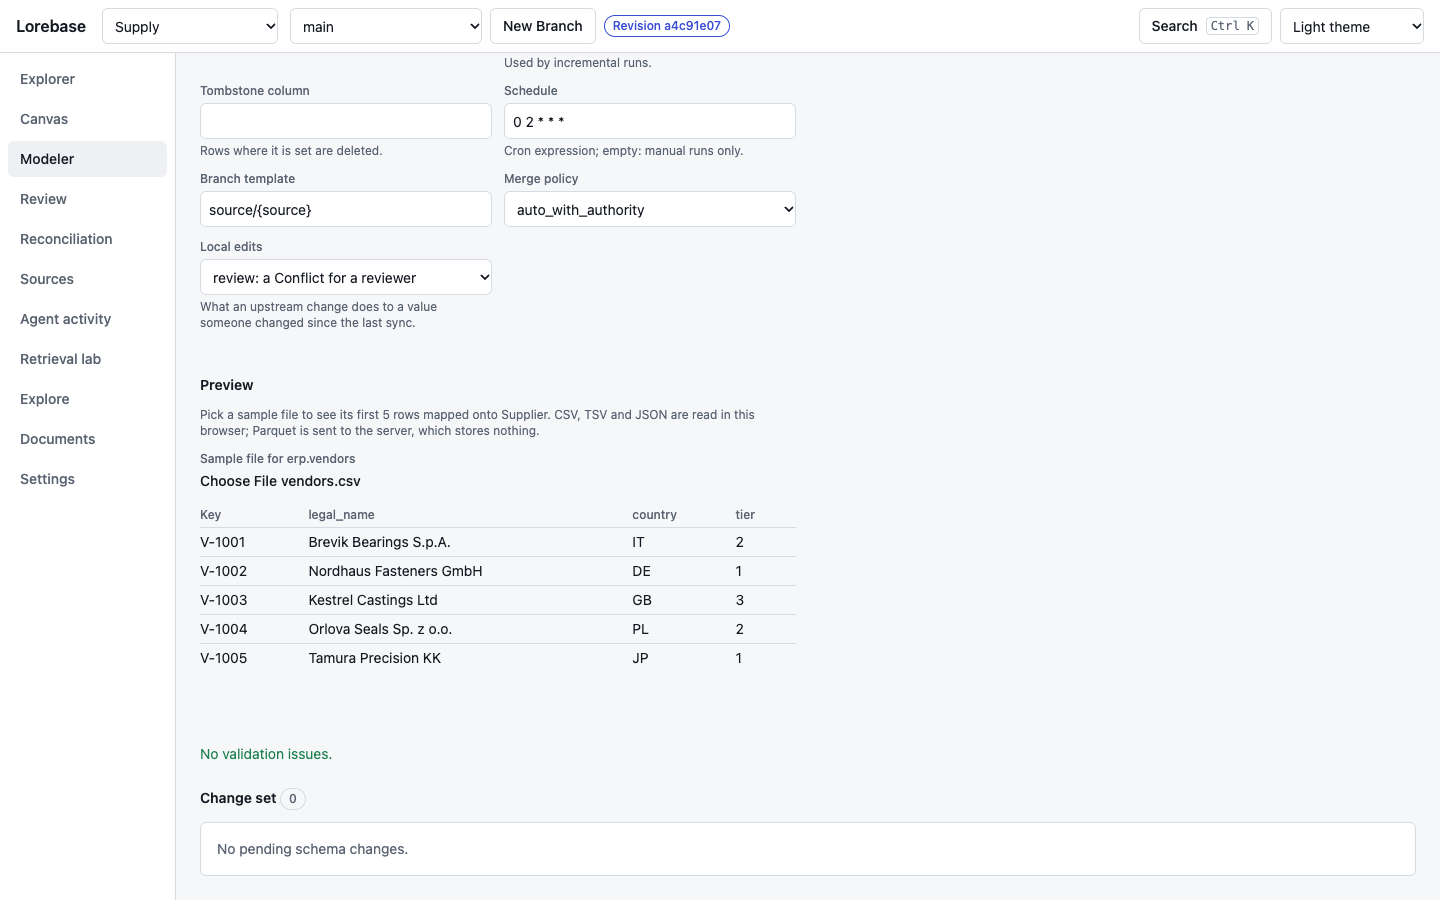
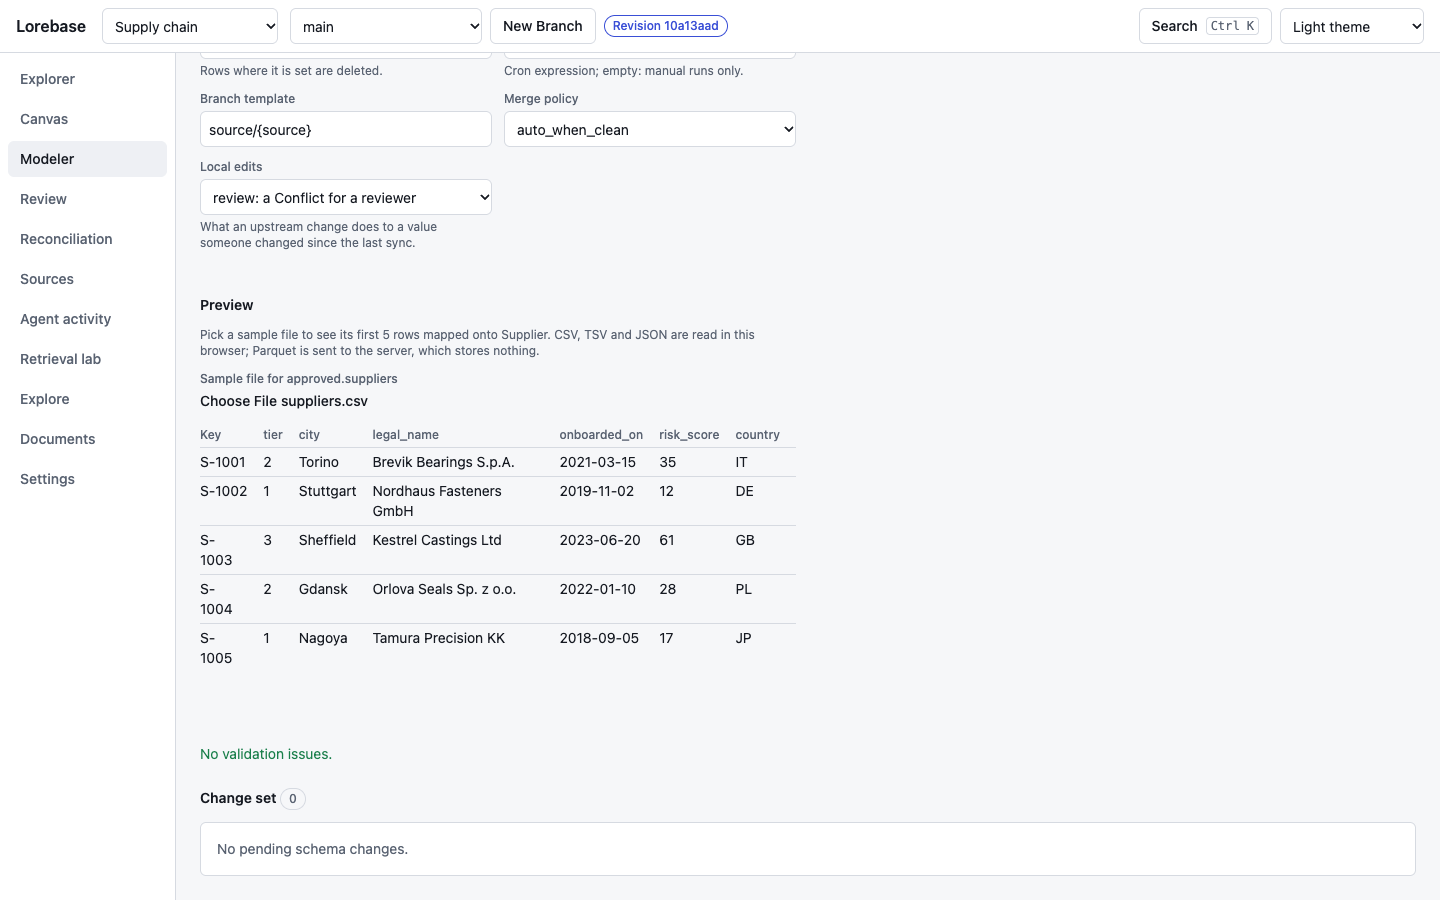
Retake the Settings and Source preview shots, load the mock's Domain update lazily
The Settings shot starts at the Domain section so the ingestion settings
are in the picture, and the Source preview shot picks approved.suppliers
instead of relying on the order of the Sources. A select step joins the
screenshot script for that.

The mock's Domain update moves to a module loaded on first use; the mock
ships in the main chunk, which the read presets and settings edits still
grow past 65 kB gzipped, so its budget rises to 66 kB.

diff --git a/apps/web/scripts/screenshots.ts b/apps/web/scripts/screenshots.ts
@@ -48,6 +48,8 @@ type Step =
   | { wait: number }
   | { waitFor: string; timeoutMs?: number }
   | { fill: string; text: string }
+  /** Choose the option `value` of the select labelled `label`. */
+  | { select: string; value: string }
   | { check: string; nth: number }
   | { upload: string; files: string[]; from?: 'sourceSample' };
 
@@ -67,6 +69,14 @@ interface Shot {
   /** Viewport height for a long screen; the width is always the one of CONFIG. */
   height?: number;
 }
+
+/** The Settings picture starts at the Domain section and reaches past the ingestion form. */
+const SETTINGS_STEPS: Step[] = [
+  { waitFor: 'form[aria-label="Ingestion settings"]' },
+  { scrollToTop: 'h2:text-is("Domain")', offset: 24 },
+  { wait: 300 },
+];
+const SETTINGS_HEIGHT = 1100;
 
 /** The sample Domain of the mock; a live run uses a Domain it loads itself. */
 const MOCK_DOMAIN = 'supply';
@@ -303,6 +313,9 @@ const MOCK_SHOTS = (domain: string): Shot[] => [
     name: 'settings',
     path: `/${domain}/settings`,
     ready: 'text=Appearance',
+    // From the Domain section down, so its ingestion settings are in the picture.
+    steps: SETTINGS_STEPS,
+    height: SETTINGS_HEIGHT,
   },
   {
     name: 'explorer-home-dark',
@@ -350,7 +363,13 @@ const LIVE_SHOTS = (domain: string, open: string): Shot[] => [
       { scrollToTop: 'text=Merge attempt', offset: 80 },
     ],
   },
-  { name: 'settings', path: `/${domain}/settings`, ready: 'text=Appearance' },
+  {
+    name: 'settings',
+    path: `/${domain}/settings`,
+    ready: 'text=Appearance',
+    steps: SETTINGS_STEPS,
+    height: SETTINGS_HEIGHT,
+  },
   {
     name: 'explorer-home-dark',
     path: `/${domain}/explorer`,
@@ -431,6 +450,9 @@ const DEMO_SHOTS = (domain: string, ids: DemoIds): Shot[] => [
     ready: '.cm-content',
     steps: [
       { click: '[role=tab]:has-text("Sources")' },
+      // The Source the sample file belongs to, whatever order the schema lists Sources in.
+      { select: 'Source', value: 'approved.suppliers' },
+      { waitFor: 'text=Transforms of legal_name' },
       { upload: 'input[type=file]', files: ['suppliers.csv'], from: 'sourceSample' },
       { waitFor: 'table[aria-label^="Sample rows"]' },
       { scrollToTop: 'table[aria-label^="Sample rows"]', offset: 260 },
@@ -501,7 +523,13 @@ const DEMO_SHOTS = (domain: string, ids: DemoIds): Shot[] => [
     needsWebGL: true,
     graph: '[role=img][aria-label^="Records touched"]',
   },
-  { name: 'settings', path: `/${domain}/settings`, ready: 'text=Appearance' },
+  {
+    name: 'settings',
+    path: `/${domain}/settings`,
+    ready: 'text=Appearance',
+    steps: SETTINGS_STEPS,
+    height: SETTINGS_HEIGHT,
+  },
   {
     name: 'explorer-home-dark',
     path: `/${domain}/explorer`,
@@ -605,6 +633,8 @@ async function runStep(page: Page, step: Step): Promise<void> {
       .locator(step.waitFor)
       .first()
       .waitFor({ state: 'visible', timeout: step.timeoutMs ?? CONFIG.readyTimeoutMs });
+  } else if ('select' in step) {
+    await page.getByLabel(step.select, { exact: true }).first().selectOption(step.value);
   } else if ('fill' in step) {
     await page.locator(step.fill).first().fill(step.text);
   } else if ('check' in step) {

diff --git a/apps/web/src/api/mock/domain-settings.ts b/apps/web/src/api/mock/domain-settings.ts
@@ -1,4 +1,5 @@
 import { apiErrorFromProblem } from '../errors';
+import type { Domain, UpdateDomainInput } from '../types';
 
 /**
  * The mock's reading of a Domain's `extraction` setting (design 9.2), with the installation
@@ -45,7 +46,7 @@ function membersProblems(raw: Record<string, unknown>, at: string, keys: Set<str
 }
 
 /** Problems of a written `extraction` value, at `/body/settings/extraction/...`. */
-export function extractionProblems(raw: unknown): Issue[] {
+function extractionProblems(raw: unknown): Issue[] {
   const at = '/body/settings/extraction';
   if (raw === null) return [];
   if (!isRecord(raw)) return [{ pointer: at, message: 'must be an object', code: 'invalid' }];
@@ -83,7 +84,7 @@ export function extractionProblems(raw: unknown): Issue[] {
   return found;
 }
 
-export function rejectedSettings(issues: Issue[]) {
+function rejectedSettings(issues: Issue[]) {
   return apiErrorFromProblem({
     type: 'urn:lorebase:problem:validation-failed',
     title: 'Request validation failed',
@@ -103,7 +104,7 @@ function ignoredMembers(raw: Record<string, unknown>, path: string): string[] {
 }
 
 /** Paths of the values of the `extraction` setting that do not apply, as Keeper reports them. */
-export function ignoredSettings(settings: Record<string, unknown>): string[] {
+function ignoredSettings(settings: Record<string, unknown>): string[] {
   const raw = settings['extraction'];
   if (raw === undefined || raw === null) return [];
   if (!isRecord(raw)) return ['extraction'];
@@ -113,4 +114,32 @@ export function ignoredSettings(settings: Record<string, unknown>): string[] {
     if (isRecord(rule)) ignored.push(...ignoredMembers(rule, `extraction.rules[${index}]`));
   });
   return ignored;
+}
+
+/** `PATCH /domains/{d}`: the Domain with the changes applied, or a 422 naming the problems. */
+export function updateDomain(domain: Domain, input: UpdateDomainInput): Domain {
+  const changed = input.settings ?? {};
+  const issues = [
+    ...Object.keys(changed)
+      .filter((key) => key !== 'extraction')
+      .map((key) => ({
+        pointer: `/body/settings/${key}`,
+        message: 'not a setting this request may change (extraction)',
+        code: 'invalid',
+      })),
+    ...('extraction' in changed ? extractionProblems(changed['extraction']) : []),
+  ];
+  if (issues.length > 0) throw rejectedSettings(issues);
+  const settings: Record<string, unknown> = { ...domain.settings };
+  for (const [key, value] of Object.entries(changed)) {
+    if (value === null) delete settings[key];
+    else settings[key] = value;
+  }
+  return {
+    ...domain,
+    ...(input.display_name == null ? {} : { display_name: input.display_name }),
+    ...(input.description === undefined ? {} : { description: input.description }),
+    settings,
+    ignored_settings: ignoredSettings(settings),
+  };
 }

diff --git a/apps/web/src/api/mock/adapter.ts b/apps/web/src/api/mock/adapter.ts
@@ -28,7 +28,6 @@ import {
 import { createAdminMock } from './admin';
 import { buildContext } from './context';
 import { createDocumentsMock } from './documents';
-import { extractionProblems, ignoredSettings, rejectedSettings } from './domain-settings';
 import { decide, listItems } from './extraction';
 import { createInferenceMock } from './inference';
 import { assertShape, attemptOf, runMerge } from './merge';
@@ -337,32 +336,12 @@ export function createMockApi(options: MockOptions): KeeperApi {
         return Promise.resolve(created.domain);
       },
       get: (id) => Promise.resolve(withCan(domainOf(id).domain)),
-      update: (id, input) => {
+      // Loaded on first use: the mock ships in the main chunk, and only Settings writes here.
+      update: async (id, input) => {
         const data = domainOf(id);
-        const changed = input.settings ?? {};
-        const unknown = Object.keys(changed).filter((key) => key !== 'extraction');
-        const issues = [
-          ...unknown.map((key) => ({
-            pointer: `/body/settings/${key}`,
-            message: 'not a setting this request may change (extraction)',
-            code: 'invalid',
-          })),
-          ...('extraction' in changed ? extractionProblems(changed['extraction']) : []),
-        ];
-        if (issues.length > 0) return Promise.reject(rejectedSettings(issues));
-        const settings: Record<string, unknown> = { ...data.domain.settings };
-        for (const [key, value] of Object.entries(changed)) {
-          if (value === null) delete settings[key];
-          else settings[key] = value;
-        }
-        data.domain = {
-          ...data.domain,
-          ...(input.display_name == null ? {} : { display_name: input.display_name }),
-          ...(input.description === undefined ? {} : { description: input.description }),
-          settings,
-          ignored_settings: ignoredSettings(settings),
-        };
-        return Promise.resolve(withCan(data.domain));
+        const { updateDomain } = await import('./domain-settings');
+        data.domain = updateDomain(data.domain, input);
+        return withCan(data.domain);
       },
     },
 
